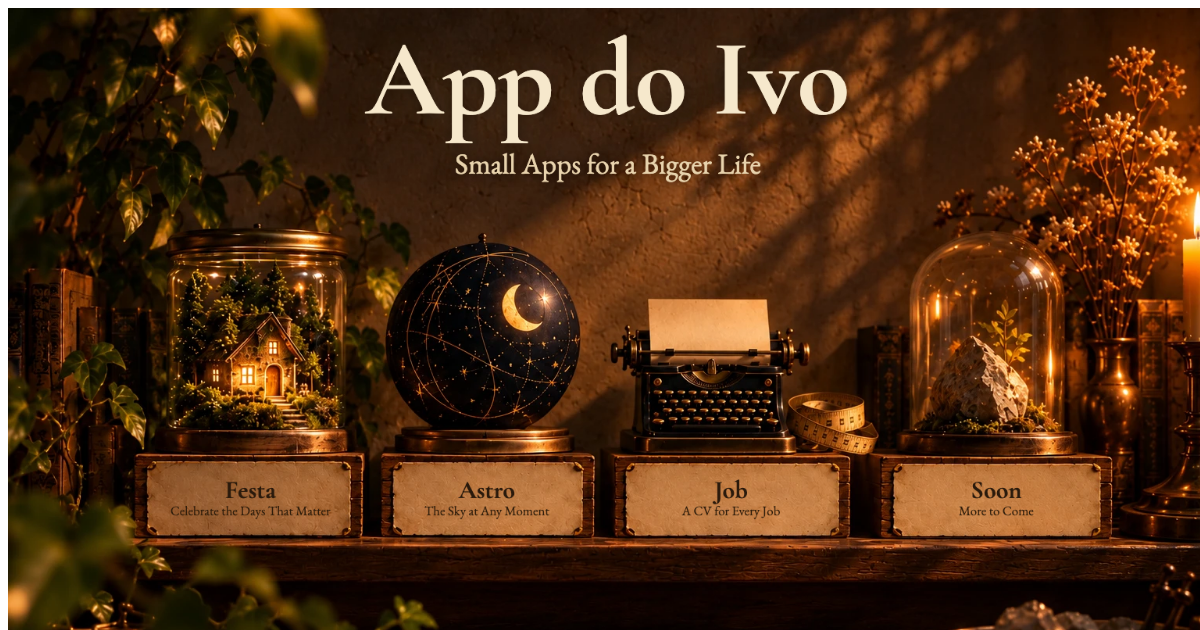
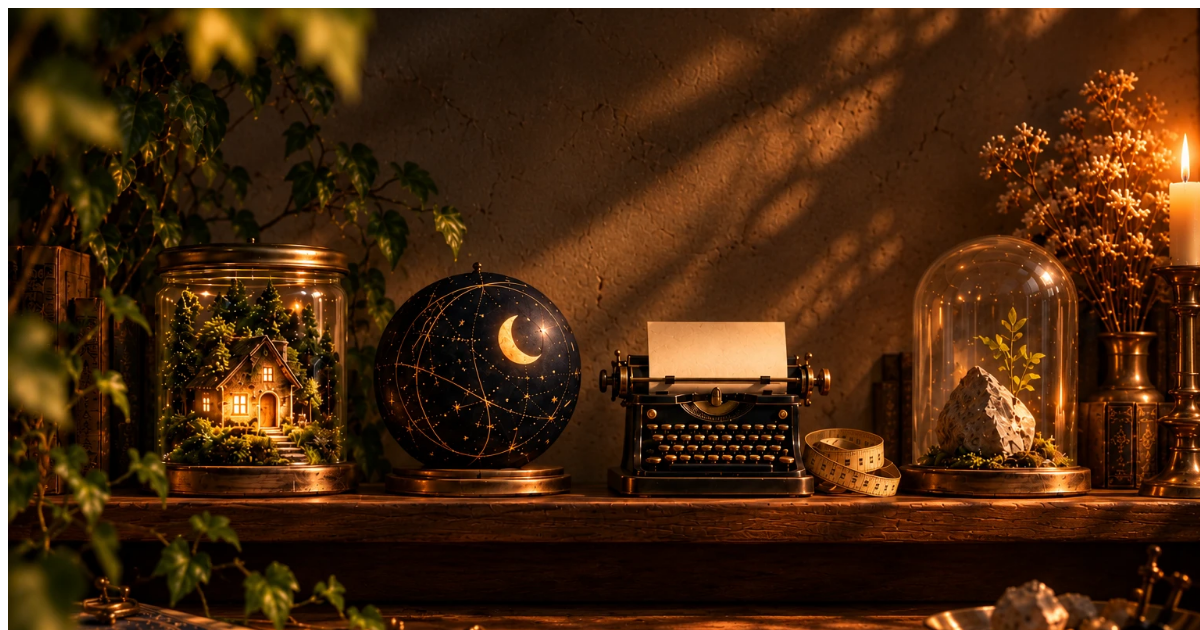
Hub: the shelf without plaques; names appear only when an object is lit
Claude-Session: https://claude.ai/code/session_01G9FaX7JLn1wRheviex6kJb

diff --git a/index.html b/index.html
@@ -9,7 +9,7 @@
 <meta property="og:description" content="Small apps by Ivo Lopes, each one an object on the shelf.">
 <meta property="og:url" content="https://appdoivo.com">
 <meta property="og:type" content="website">
-<meta property="og:image" content="https://appdoivo.com/og-image.png?v=5">
+<meta property="og:image" content="https://appdoivo.com/og-image.png?v=6">
 <meta property="og:image:width" content="1200">
 <meta property="og:image:height" content="630">
 <meta name="twitter:card" content="summary_large_image">
@@ -20,8 +20,8 @@
 <meta name="theme-color" content="#3a2414">
 <meta name="color-scheme" content="light dark">
 <script>try{var t=localStorage.getItem("theme");if(t)document.documentElement.dataset.theme=t}catch(e){}</script>
-<link rel="preload" as="image" href="img/scene/moody-desk.webp?v=1" media="(min-width: 721px)">
-<link rel="preload" as="image" href="img/scene/moody-phone.webp?v=1" media="(max-width: 720px)">
+<link rel="preload" as="image" href="img/scene/bare-desk.webp?v=1" media="(min-width: 721px)">
+<link rel="preload" as="image" href="img/scene/bare-phone.webp?v=1" media="(max-width: 720px)">
 <link rel="preconnect" href="https://fonts.googleapis.com">
 <link rel="preconnect" href="https://fonts.gstatic.com" crossorigin>
 <link href="https://fonts.googleapis.com/css2?family=Cormorant+Garamond:wght@600;700&family=EB+Garamond:wght@400;500&display=swap" rel="stylesheet">
@@ -64,24 +64,26 @@
 
   /* Each app: a link over its object and stand, and its words on the label */
   .app { position: absolute; z-index: 2; display: block; border-radius: 12px; text-decoration: none; color: var(--ink); }
-  a.app:hover .label b { text-decoration: underline; text-decoration-thickness: 1px; text-underline-offset: .15em; }
   /* Touching or pointing at an object lights it softly, like a lamp turned toward it
      (instead of the browser's grey tap box, which showed the link's square edges) */
   a.app { -webkit-tap-highlight-color: transparent; outline: none; }
   /* The light: a small warm glow, like a firefly, appears on the object and breathes */
-  a.app::before { content: ""; position: absolute; left: 50%; top: 28%; width: 32%; aspect-ratio: 1; translate: -50% -50%; border-radius: 50%; pointer-events: none;
+  a.app::before { content: ""; position: absolute; left: 50%; top: 40%; width: 34%; aspect-ratio: 1; translate: -50% -50%; border-radius: 50%; pointer-events: none;
     background: radial-gradient(circle, #fff6dc 0 9%, rgba(255, 214, 140, .95) 16%, rgba(255, 180, 90, .45) 38%, rgba(255, 160, 70, .12) 62%, transparent 72%);
     opacity: 0; scale: .4; transition: opacity .3s ease, scale .45s cubic-bezier(.2, 1.4, .4, 1); }
   a.app:hover::before, a.app:focus-visible::before { opacity: .85; scale: 1; animation: breathe 2.4s ease-in-out .45s infinite; }
   a.app:active::before { opacity: 1; scale: 1.25; transition-duration: .12s; }
   @keyframes breathe { 50% { opacity: .55; scale: .82; } }
   @media (prefers-reduced-motion: reduce) { a.app::before { transition: none; animation: none !important; } }
-  .label { position: absolute; left: 0; right: 0; bottom: 0; height: var(--lh); display: grid; align-content: center; justify-items: center; text-align: center;
-    padding: 0 9%; filter: brightness(calc(.55 + var(--dim) * .45)); }
-  .label b { font: 700 var(--name)/1.05 "Cormorant Garamond", Georgia, serif; color: var(--ink); }
-  .label span { font-size: var(--small); line-height: 1.15; color: var(--sub); }
-  .scene.desk .app { --name: 2.1cqw; --small: 1.1cqw; }
-  .scene.phone .app { --name: 3.9cqw; --small: 0; }
+  /* No plaques: an app's name appears just under its object while the object is lit
+     (hovered, focused or tapped). Screen readers always get it. */
+  .label { position: absolute; left: -20%; right: -20%; top: 100%; display: grid; justify-items: center; text-align: center; gap: 2px; padding-top: 6px; pointer-events: none;
+    opacity: 0; translate: 0 -4px; transition: opacity .35s ease, translate .35s ease; }
+  a.app:hover .label, a.app:focus-visible .label, a.app:active .label { opacity: 1; translate: 0 0; }
+  .label b { font: 700 var(--name)/1.05 "Cormorant Garamond", Georgia, serif; color: #fbeccd; text-shadow: 0 1px 3px rgba(0, 0, 0, .9), 0 0 14px rgba(0, 0, 0, .7); }
+  .label span { font-size: var(--small); line-height: 1.15; color: #f0dcb4; text-shadow: 0 1px 3px rgba(0, 0, 0, .9); }
+  .scene.desk .app { --name: 2.2cqw; --small: 1.15cqw; }
+  .scene.phone .app { --name: 5cqw; --small: 0; }
   .scene.phone .label span { position: absolute; width: 1px; height: 1px; overflow: hidden; clip-path: inset(50%); }   /* phones show the name; the line stays for screen readers */
 
   body.debug .label { outline: 2px solid #f0f; } body.debug .app { outline: 1px dashed #0ff; }
@@ -101,13 +103,13 @@
 </div>
 <script>
   // Where each app sits in each picture, in % of the picture: the object and stand
-  // (x, y, w, h) and the label's height inside that box. To add an app: ask ChatGPT
+  // (x, y, w, h). To add an app: ask ChatGPT
   // for the scene with the new object, then measure its box here (?debug shows the boxes).
   const SCENES = {
-    desk: { src: "img/scene/moody-desk.webp?v=1", w: 1536, h: 1024, apps: {
-      festa: [11.7, 32.2, 17.0, 38.3, 8.8], astro: [31.9, 33.2, 16.0, 37.3, 8.8], job: [51.4, 41.0, 17.7, 29.5, 8.8], soon: [73.7, 32.7, 17.3, 37.8, 8.8] } },
-    phone: { src: "img/scene/moody-phone.webp?v=1", w: 1024, h: 1536, apps: {
-      festa: [38.1, 6.2, 24.0, 19.7, 5.2], astro: [37.9, 27.0, 24.2, 20.1, 4.9], job: [37.1, 49.2, 25.9, 17.9, 5.5], soon: [37.3, 67.7, 25.4, 22.7, 5.7] } },
+    desk: { src: "img/scene/bare-desk.webp?v=1", w: 1536, h: 1024, apps: {
+      festa: [12.4, 34.2, 16.6, 31.4], astro: [30.6, 36.6, 17.3, 29.3], job: [49.2, 43.9, 25.4, 22.0], soon: [74.2, 33.2, 16.3, 32.4] } },
+    phone: { src: "img/scene/bare-phone.webp?v=1", w: 1024, h: 1536, apps: {
+      festa: [36.6, 6.2, 26.4, 17.8], astro: [37.6, 28.0, 24.7, 16.9], job: [35.6, 49.8, 38.6, 15.0], soon: [37.6, 67.7, 25.0, 21.0] } },
   };
   const APPS = [
     { id: "festa", href: "https://festa-demo.appdoivo.com" },
@@ -146,8 +148,8 @@
     img.alt = t.alt;
     $("apps").setAttribute("aria-label", t.apps);
     $("apps").innerHTML = APPS.map((a) => {
-      const [x, y, w, h, lh] = s.apps[a.id], tag = a.href ? "a" : "div";
-      const style = `left:${x}%;top:${y}%;width:${w}%;height:${h}%;--lh:${(lh / h) * 100}%`;
+      const [x, y, w, h] = s.apps[a.id];
+      const style = `left:${x}%;top:${y}%;width:${w}%;height:${h}%`;
       // A link is named by the words on its label; "Soon" is a picture with a name, not a link
       return a.href
         ? `<a class="app ${a.id}" href="${a.href}" style="${style}"><span class="label"><b>${esc(t[a.id][0])}</b> <span>${esc(t[a.id][1])}</span></span></a>`

diff --git a/README.md b/README.md
@@ -3,8 +3,8 @@
 [![CI](https://github.com/githubdoivo/appdoivo.com/actions/workflows/ci.yml/badge.svg)](https://github.com/githubdoivo/appdoivo.com/actions/workflows/ci.yml)
 
 **App do Ivo**: the hub for the apps Ivo Lopes builds: one painted scene of a bookshelf in
-afternoon light (dimmed with a candle glow by night), one object per app on a wooden stand.
-The names are real text laid over the blank parchment labels, so they stay sharp and translate.
+afternoon light (dimmed with a candle glow by night), one object per app on the shelf, no plaques and no text on the page.
+Pointing at or tapping an object lights a small warm glow on it and shows its name under it.
 A wide scene for computers, a tall one for phones (`img/scene/`, from ChatGPT; originals in
 `~/Downloads/appdoivo-refs/scene/`). 
 
@@ -19,7 +19,7 @@ A wide scene for computers, a tall one for phones (`img/scene/`, from ChatGPT; o
 
 1. In the ChatGPT chat of the design, ask for both scenes again with the new object on its
    own stand with a blank label (and every other object in the same place).
-2. Save them as `img/scene/moody-desk.webp` and `moody-phone.webp` (bump `?v=`).
+2. Save them as `img/scene/bare-desk.webp` and `bare-phone.webp` (bump `?v=`).
 3. Add the app to `APPS` and its words to both languages in `index.html`, and measure its box
    in `SCENES` (open the page with `?debug` to see the boxes over the picture).
 
